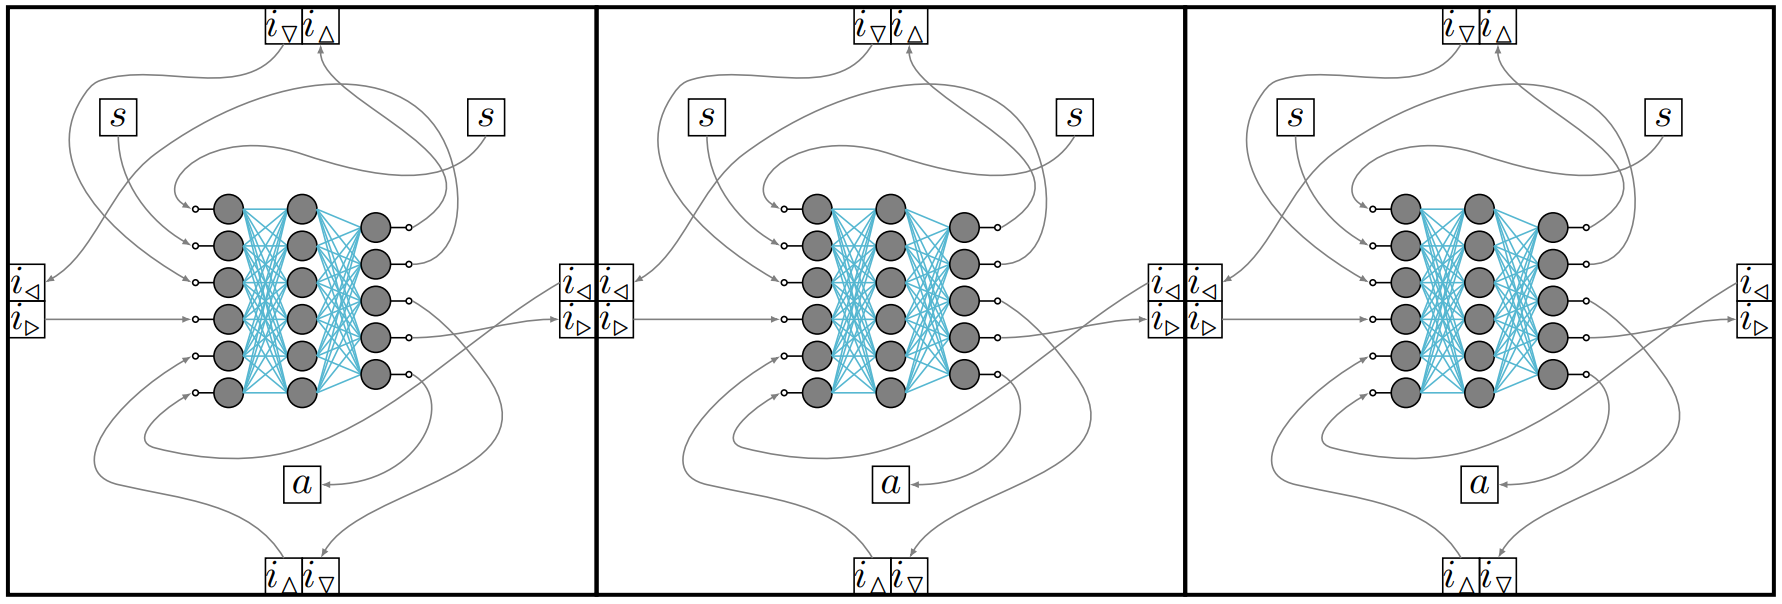
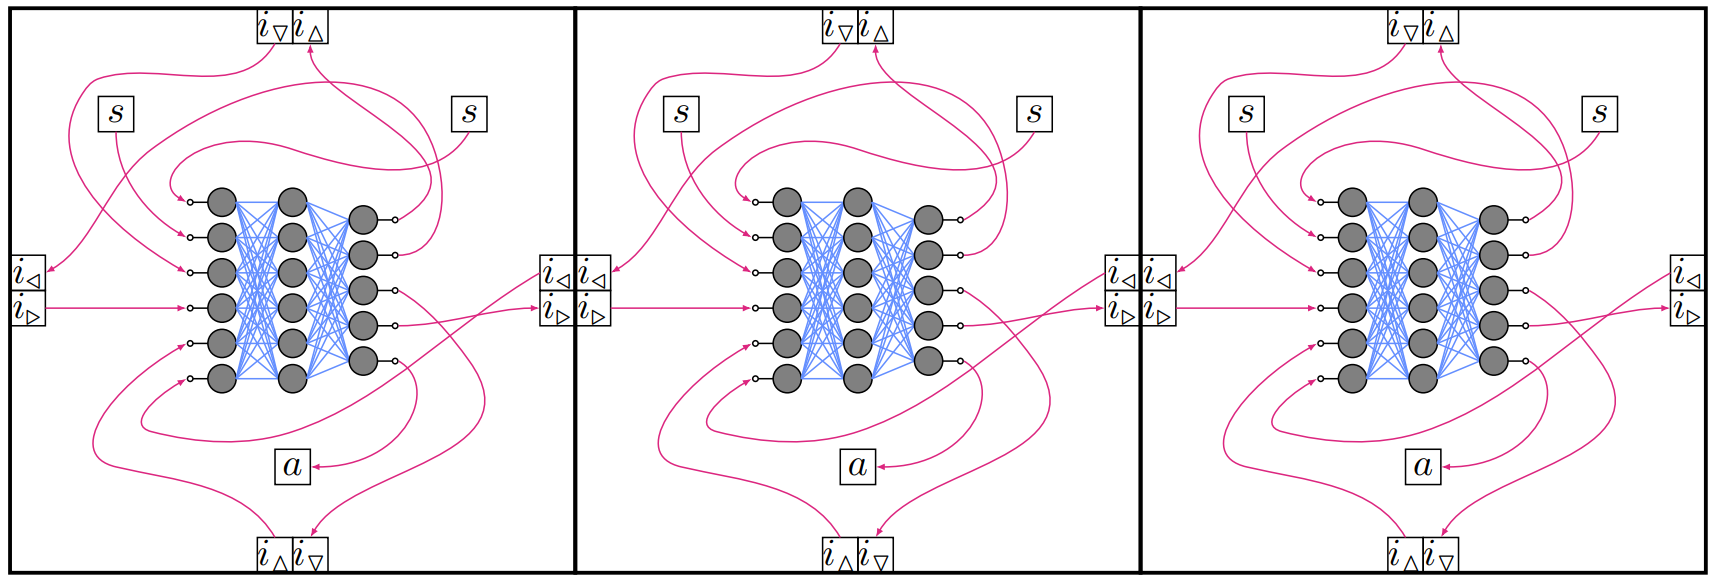
colors updated consistently with IBM color-blind safe palette

diff --git a/2022-wivace-morphological-variations/assets/style.css b/2022-wivace-morphological-variations/assets/style.css
@@ -1,18 +1,27 @@
-@import url("https://fonts.googleapis.com/css?family=Livvic:400,400i,700,700i|Roboto+Mono:400,700,400i");
-body {
+@import url("https://fonts.googleapis.com/css2?family=Livvic:400,400i,700,700i|Roboto+Mono:400,700,400i");
+@import url('https://fonts.googleapis.com/css2?family=Concert+One&family=Livvic:ital,wght@0,400;0,700;1,400;1,700&display=swap');body {
   font-family: "Livvic";
 }
 .remark-slide-content {
   font-size: 22px;
 }
+.col1 { color: #648FFF }
+.col2 { color: #785EF0 }
+.col3 { color: #DC267F }
+.col4 { color: #FE6100 }
+.col5 { color: #FFB000 }
+
 h1,
 h2,
-h3 {
-  font-family: "Livvic";
+h3,
+h4 {
+  font-family: "Concert One";
   font-weight: normal;
 }
 h1 {
-  color: brown;
+  color: #648FFF;
+  text-decoration-line: underline;
+  text-decoration-color: #DC267F;
 }
 code {
   border-radius: 0.5em;
@@ -20,6 +29,11 @@ code {
 .compact code {
   line-height: 70%;
   font-size: 60%;
+}
+a {
+  color: #DC267F;
+  text-decoration-line: underline;
+  text-decoration-color: #648FFF;
 }
 pre {
   margin: 0.1em 0;
@@ -29,7 +43,7 @@ pre {
   font-family: "Roboto Mono";
 }
 .remark-inline-code {
-  color: #812815;
+  color: #648FFF;
   font-size: 85%;
 }
 .cols {
@@ -127,7 +141,7 @@ img {
   border-radius: 0.5em;
 }
 .important {
-  background-color: #ff5733;
+  background-color: #DC267F;
   padding: 0.5em;
   font-size: 150%;
   border-radius: 0.5em;
@@ -144,8 +158,6 @@ img {
   content: ")";
 }
 
-.remark-slide-content.lab {
-  background-color: #daf7a6;
 }
 .large {
   font-size: 150%;
@@ -165,6 +177,6 @@ img {
 }
 .ttt {
   font-family: "Roboto Mono";
-  color: #152881;
+  color: #648FFF;
   font-size: 85%;
 }

diff --git a/2022-wivace-morphological-variations/index.md b/2022-wivace-morphological-variations/index.md
@@ -68,7 +68,7 @@ Life cycle
 
 ---
 
-# Limitations of auto-fabrication
+# Limits of auto-fabrication
 
 What if auto-fabrication sometimes does not work as expected?  
 What if the assmbled **morphology is (slightly) different** from the expected one?
@@ -164,9 +164,9 @@ Simple $\mu + \lambda$ EA:
 
 # Base/varied morphologies
 
-Evolution on base morphologies: biped, comb, worm $\times$ S, L
+Evolution on **base morphologies**: biped, comb, worm $\times$ S, L
 
-Morphology variation: given base and target variation $\delta$, perturbate morpholody
+Morphology **variation**: given base and target variation $\delta$, build 10 perturbate morpholodies
 
 .center.w100p[![Sample of modified morphologies](images/mod-morphs.png)]
 .note[Examples with $\theta=1$ for S, $\theta=2$ for L]
@@ -254,10 +254,8 @@ Authors/contacts:
 .h10ex[![Eric Medvet](images/author-medvet.jpg)]
 .h10ex[![Francesco Rusin](images/author-rusin.jpg)]
 
-<i class="fa fa-envelope" aria-hidden="true"></i> [emedvet@units.it](mailto:emedvet@units.it)
-
-<i class="fa fa-twitter" aria-hidden="true"></i> [@EricMedvetTs](https://twitter.com/EricMedvetTs)
-
+<i class="fa fa-envelope" aria-hidden="true"></i> [emedvet@units.it](mailto:emedvet@units.it)  
+<i class="fa fa-twitter" aria-hidden="true"></i> [@EricMedvetTs](https://twitter.com/EricMedvetTs)  
 <i class="fa fa-twitter" aria-hidden="true"></i> [@EralLabTs](https://twitter.com/EralLabTs)
 ]
 ]
